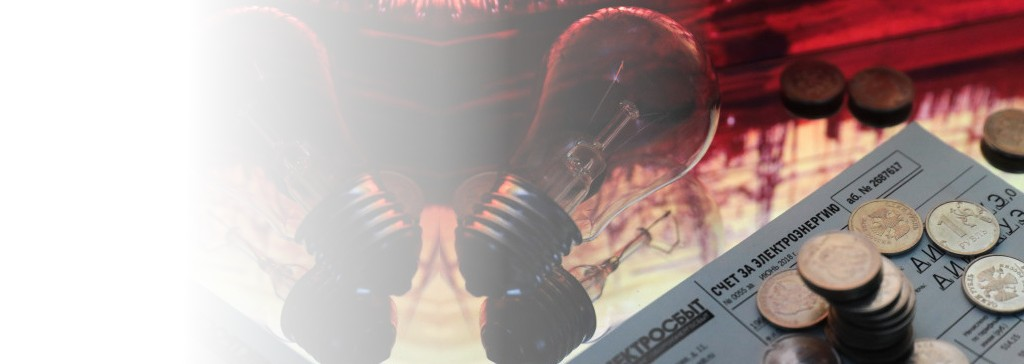
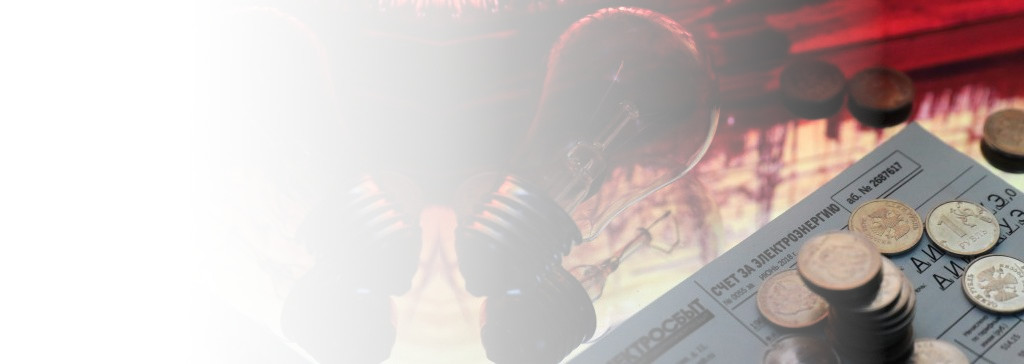
Modified html files due to Bootstrap update to version 5

diff --git a/dfesite/templates/index.html b/dfesite/templates/index.html
@@ -12,41 +12,50 @@
     </h2>
 </div>
     <div class="container">
-      <div id="carouselExampleCaptions" class="carousel slide py-2" data-ride="carousel">
-        <ol class="carousel-indicators">
-          <li data-target="#carouselExampleCaptions" data-slide-to="0" class="active"></li>
-          <li data-target="#carouselExampleCaptions" data-slide-to="1"></li>
-          <li data-target="#carouselExampleCaptions" data-slide-to="2"></li>
-        </ol>
-        <div class="carousel-inner">
-          <div class="carousel-item active">
-            <a href="{% url 'industry:list' %}"><img src="{% static 'images/tek.jpg' %}" class="rounded mx-auto d-block w-75" alt="Industry"></a>
-            <div class="carousel-caption d-none d-md-block">
-              <h5>О промышленном производстве</h5>
+
+        <div id="carouselDfe" class="carousel slide mt-2" data-bs-ride="carousel">
+            <div class="carousel-indicators">
+                <button type="button" data-bs-target="#carouselDfe" data-bs-slide-to="0" class="active" aria-current="true" aria-label="Slide Industry"></button>
+                <button type="button" data-bs-target="#carouselDfe" data-bs-slide-to="1" aria-label="Slide Price"></button>
+                <button type="button" data-bs-target="#carouselDfe" data-bs-slide-to="2" aria-label="Slide Population"></button>
+                <button type="button" data-bs-target="#carouselDfe" data-bs-slide-to="3" aria-label="Slide Subsidy"></button>
             </div>
-          </div>
-          <div class="carousel-item">
-            <a href="{% url 'price:list' %}"><img src="{% static 'images/price.jpg' %}" class="rounded mx-auto d-block w-75" alt="Price"></a>
-            <div class="carousel-caption d-none d-md-block">
-              <h5>Средние цены</h5>
+            <div class="carousel-inner">
+                <div class="carousel-item active">
+                    <a href="{% url 'industry:list' %}"><img src="{% static 'images/carousel_tek.jpg' %}" class="rounded mx-auto d-block w-75" alt="Industry"></a>
+                    <div class="carousel-caption d-none d-md-block">
+                      <h5>О промышленном производстве</h5>
+                    </div>
+                </div>
+                <div class="carousel-item">
+                    <a href="{% url 'price:list' %}"><img src="{% static 'images/carousel_price.jpg' %}" class="rounded mx-auto d-block w-75" alt="Price"></a>
+                    <div class="carousel-caption d-none d-md-block">
+                      <h5>Средние цены</h5>
+                    </div>
+                </div>
+                <div class="carousel-item">
+                    <a href="{% url 'population:list' %}"><img src="{% static 'images/carousel_population.jpg' %}" class="rounded mx-auto d-block w-75" alt="Population"></a>
+                    <div class="carousel-caption d-none d-md-block">
+                      <h5>Демография и миграция</h5>
+                    </div>
+                </div>
+                <div class="carousel-item">
+                    <a href="{% url 'subsidy:list' %}"><img src="{% static 'images/carousel_subsidy.jpg' %}" class="rounded mx-auto d-block w-75" alt="Subsidy"></a>
+                    <div class="carousel-caption d-none d-md-block">
+                      <h5>Льготы, субсидии</h5>
+                    </div>
+                </div>
             </div>
-          </div>
-          <div class="carousel-item">
-            <a href="{% url 'salary:list' %}"><img src="{% static 'images/salary.jpg' %}" class="rounded mx-auto d-block w-75" alt="Salary"></a>
-            <div class="carousel-caption d-none d-md-block">
-              <h5>Среднемесячная заработная плата</h5>
-            </div>
-          </div>
+            <button class="carousel-control-prev" type="button" data-bs-target="#carouselDfe" data-bs-slide="prev">
+                <span class="carousel-control-prev-icon" aria-hidden="true"></span>
+                <span class="visually-hidden">Previous</span>
+            </button>
+            <button class="carousel-control-next" type="button" data-bs-target="#carouselDfe" data-bs-slide="next">
+                <span class="carousel-control-next-icon" aria-hidden="true"></span>
+                <span class="visually-hidden">Next</span>
+            </button>
         </div>
-        <a class="carousel-control-prev" href="#carouselExampleCaptions" role="button" data-slide="prev">
-          <span class="carousel-control-prev-icon" aria-hidden="true"></span>
-          <span class="sr-only">Previous</span>
-        </a>
-        <a class="carousel-control-next" href="#carouselExampleCaptions" role="button" data-slide="next">
-          <span class="carousel-control-next-icon" aria-hidden="true"></span>
-          <span class="sr-only">Next</span>
-        </a>
-      </div>
+
         <br>
         <hr class="my-4">
         <p class="lead">

diff --git a/dfesite/templates/login.html b/dfesite/templates/login.html
@@ -1,27 +1,26 @@
 {% extends 'base.html' %}
 {% load static %}
 {% block body_block %}
-<div class="jumbotron text-center">
-    <h1 class="h3 mb-3 font-weight-normal">Авторизация</h1>
-<!--    <h6>Пожалуйста авторизуйтесь</h6>-->
-    <br>
+<div class="py-5 text-center">
     {% if form.errors %}
-        <p>Неверные учетные данные</p>
+        <h3 class="my-4 font-weight-normal">Неверные учетные данные</h3>
+    {% else %}
+        <h3 class="my-4 font-weight-normal">Авторизация</h3>
     {% endif %}
-  <form class="form-group col-xs-4" method="POST">
-    {% csrf_token %}
-    <div class="row justify-content-md-center">
-    <div class="form-group col-md-4">
-      <input type="input" class="form-control" name="username" placeholder="Имя пользователя" required >
-    </div>
-      </div>
-    <div class="row justify-content-md-center">
-    <div class="form-group col-md-4">
-      <input type="password" class="form-control" name="password" placeholder="Пароль" required>
-      </div>
-    </div>
-      <br>
-      <button class="btn btn-lg btn-primary col-md-3" type="submit">Вход</button>
-  </form>
+<!--    <h6>Пожалуйста авторизуйтесь</h6>-->
+	<form class="form-group col-xs-4" method="POST">
+        {% csrf_token %}
+        <div class="row justify-content-md-center my-2">
+            <div class="form-group col-md-4">
+                <input type="input" class="form-control" name="username" placeholder="Имя пользователя" required>
+            </div>
+        </div>
+        <div class="row justify-content-md-center my-2">
+            <div class="form-group col-md-4">
+                <input type="password" class="form-control" name="password" placeholder="Пароль" required>
+            </div>
+        </div>
+        <button class="btn btn-lg btn-primary col-md-3 my-3" type="submit">Вход</button>
+    </form>
 </div>
 {% endblock %}

diff --git a/dfesite/templates/docs_base.html b/dfesite/templates/docs_base.html
@@ -11,10 +11,9 @@
     <div class="container">
         <div class="collapse navbar-collapse">
             <ul class="navbar-nav me-auto">
-                <li class="nav-item dropdown btn btn-outline-success me-3" id="myDropdown1">
+                <li class="nav-item dropdown btn btn-sm btn-outline-success me-3" id="myDropdown1">
                     <a class="nav-link dropdown-toggle" href="#" data-bs-toggle="dropdown">  Разделы  </a>
                     <ul class="dropdown-menu">
-
                         {% recursetree cat_menu %}
                             {% if not node.is_leaf_node %}
                                 <li>
@@ -25,7 +24,6 @@
                                 <li><a class="dropdown-item text-dark" href="{% url 'docs:category' node.slug %}">{{ node|capfirst }}</a></li>
                             {% endif %}
                         {% endrecursetree %}
-
                     </ul>
                 </li>
                 <li class="nav-item btn btn-sm btn-outline-secondary me-1" type="button"><a class="nav-link text-dark" href="{% url 'docs:add_post' %}">Добавить статью</a></li>

diff --git a/dfesite/industry/templates/industry/industrynews_list.html b/dfesite/industry/templates/industry/industrynews_list.html
@@ -19,13 +19,12 @@
     </p>
     <hr class="my-4">
     <h3>Статистические данные</h3>
-<!--    <h3>О промышленном производстве</h3>-->
     <div class="list-group">
     {% for news in news_list %}
        <a href="{{ news.id }}" class="list-group-item list-group-item-action ">{{ news.title }}</a>
-<!--       <a href="{{ news.id }}" class="list-group-item list-group-item-action ">{{ news.title|slice:"28:" }}</a>-->
     {% endfor %}
-        <p>
+    </div>
+    <br>
         <nav aria-label="Page navigation example">
             <ul class="pagination">
             {% if page_obj.has_previous %}
@@ -43,7 +42,5 @@
             {% endif %}
             </ul>
         </nav>
-        </p>
-    </div>
 </div>
 {% endblock%}

diff --git a/dfesite/rate/templates/rate/daily_list.html b/dfesite/rate/templates/rate/daily_list.html
@@ -11,7 +11,7 @@
 
     <nav class="navbar navbar-expand-lg navbar-dark d-flex justify-content-center">
         <a class="btn btn-sm btn-outline-info text-dark" href="{% url 'rate:monthly_list' %}">Котировки нефти "Юралс"</a>
-        <a class="btn btn-sm btn-outline-info text-dark" href="{% url 'rate:chart' %}">Динамика курса доллара и нефти</a>
+        <a class="btn btn-sm btn-outline-info text-dark mx-1" href="{% url 'rate:chart' %}">Динамика курса доллара и нефти</a>
         {% if user.is_authenticated %}
             <form action="{% url 'rate:success' %}" method="POST">
                 {% csrf_token %}

diff --git a/dfesite/rate/templates/rate/monthly_list.html b/dfesite/rate/templates/rate/monthly_list.html
@@ -9,7 +9,7 @@
 
     <nav class="navbar navbar-expand-lg navbar-dark d-flex justify-content-center">
         <a class="btn btn-sm btn-outline-info text-dark" href="{% url 'rate:daily_list' %}">Курс доллара</a>
-        <a class="btn btn-sm btn-outline-info text-dark" href="{% url 'rate:chart' %}">Динамика курса доллара и нефти</a>
+        <a class="btn btn-sm btn-outline-info text-dark mx-1" href="{% url 'rate:chart' %}">Динамика курса доллара и нефти</a>
         {% if user.is_authenticated %}
             <form action="{% url 'rate:success' %}" method="POST">
                 {% csrf_token %}

diff --git a/dfesite/salary/templates/salary/salarynews_list.html b/dfesite/salary/templates/salary/salarynews_list.html
@@ -13,7 +13,8 @@
     {% for news in news_list %}
        <a href="{{ news.id }}" class="list-group-item list-group-item-action ">{{ news.title }}</a>
     {% endfor %}
-        <p>
+    </div>
+    <br>
         <nav aria-label="Page navigation example">
             <ul class="pagination">
             {% if page_obj.has_previous %}
@@ -31,8 +32,5 @@
             {% endif %}
             </ul>
         </nav>
-        </p>
-    </div>
-
 </div>
 {% endblock%}

diff --git a/dfesite/population/templates/population/population_list.html b/dfesite/population/templates/population/population_list.html
@@ -13,7 +13,7 @@
        <a href="{{ migr.id }}" class="list-group-item list-group-item-action ">{{ migr.migration_title }}</a>
     {% endfor %}
     </div>
-        <p>
+    <br>
         <nav aria-label="Page navigation example">
             <ul class="pagination">
             {% if page_obj.has_previous %}
@@ -31,6 +31,5 @@
             {% endif %}
             </ul>
         </nav>
-        </p>
 </div>
 {% endblock%}

diff --git a/dfesite/population/templates/population/population_detail.html b/dfesite/population/templates/population/population_detail.html
@@ -12,7 +12,7 @@
 </div>
 <div class="container">
     {% if user.is_authenticated %}
-    <form class="d-flex justify-content-center" action="{% url 'population:success' %}" method="POST">
+    <form class="d-flex justify-content-center mt-2" action="{% url 'population:success' %}" method="POST">
         {% csrf_token %}
         {{ form.as_p }}
         <input type="hidden" name="migr_pk" value="{{ migr_detail.pk }}">

diff --git a/dfesite/salary/templates/salary/salarynews_detail.html b/dfesite/salary/templates/salary/salarynews_detail.html
@@ -17,7 +17,7 @@
 </div>
 <div class="container">
     {% if user.is_authenticated %}
-    <form class="d-flex justify-content-center" action="{% url 'salary:success' %}" method="POST">
+    <form class="d-flex justify-content-center mt-2" action="{% url 'salary:success' %}" method="POST">
         {% csrf_token %}
         {{ form.as_p }}
         <input type="hidden" name="news_pk" value="{{ salarynews_detail.pk }}">

diff --git a/dfesite/industry/templates/industry/industrynews_detail.html b/dfesite/industry/templates/industry/industrynews_detail.html
@@ -12,7 +12,7 @@
 
 <div class="container">
     {% if user.is_authenticated %}
-    <form class="d-flex justify-content-center" action="{% url 'industry:success' %}" method="POST">
+    <form class="d-flex justify-content-center mt-2" action="{% url 'industry:success' %}" method="POST">
         {% csrf_token %}
         {{ form.as_p }}
         <input type="hidden" name="news_pk" value="{{ industry_detail.pk }}">

diff --git a/dfesite/subsidy/templates/subsidy/subsidy_detail.html b/dfesite/subsidy/templates/subsidy/subsidy_detail.html
@@ -16,7 +16,7 @@
 </div>
 <div class="container">
     {% if user.is_authenticated %}
-    <form class="d-flex justify-content-center" action="{% url 'subsidy:success' %}" method="POST">
+    <form class="d-flex justify-content-center mt-2" action="{% url 'subsidy:success' %}" method="POST">
         {% csrf_token %}
         {{ form.as_p }}
         <input type="hidden" name="news_pk" value="{{ news_detail.pk }}">
